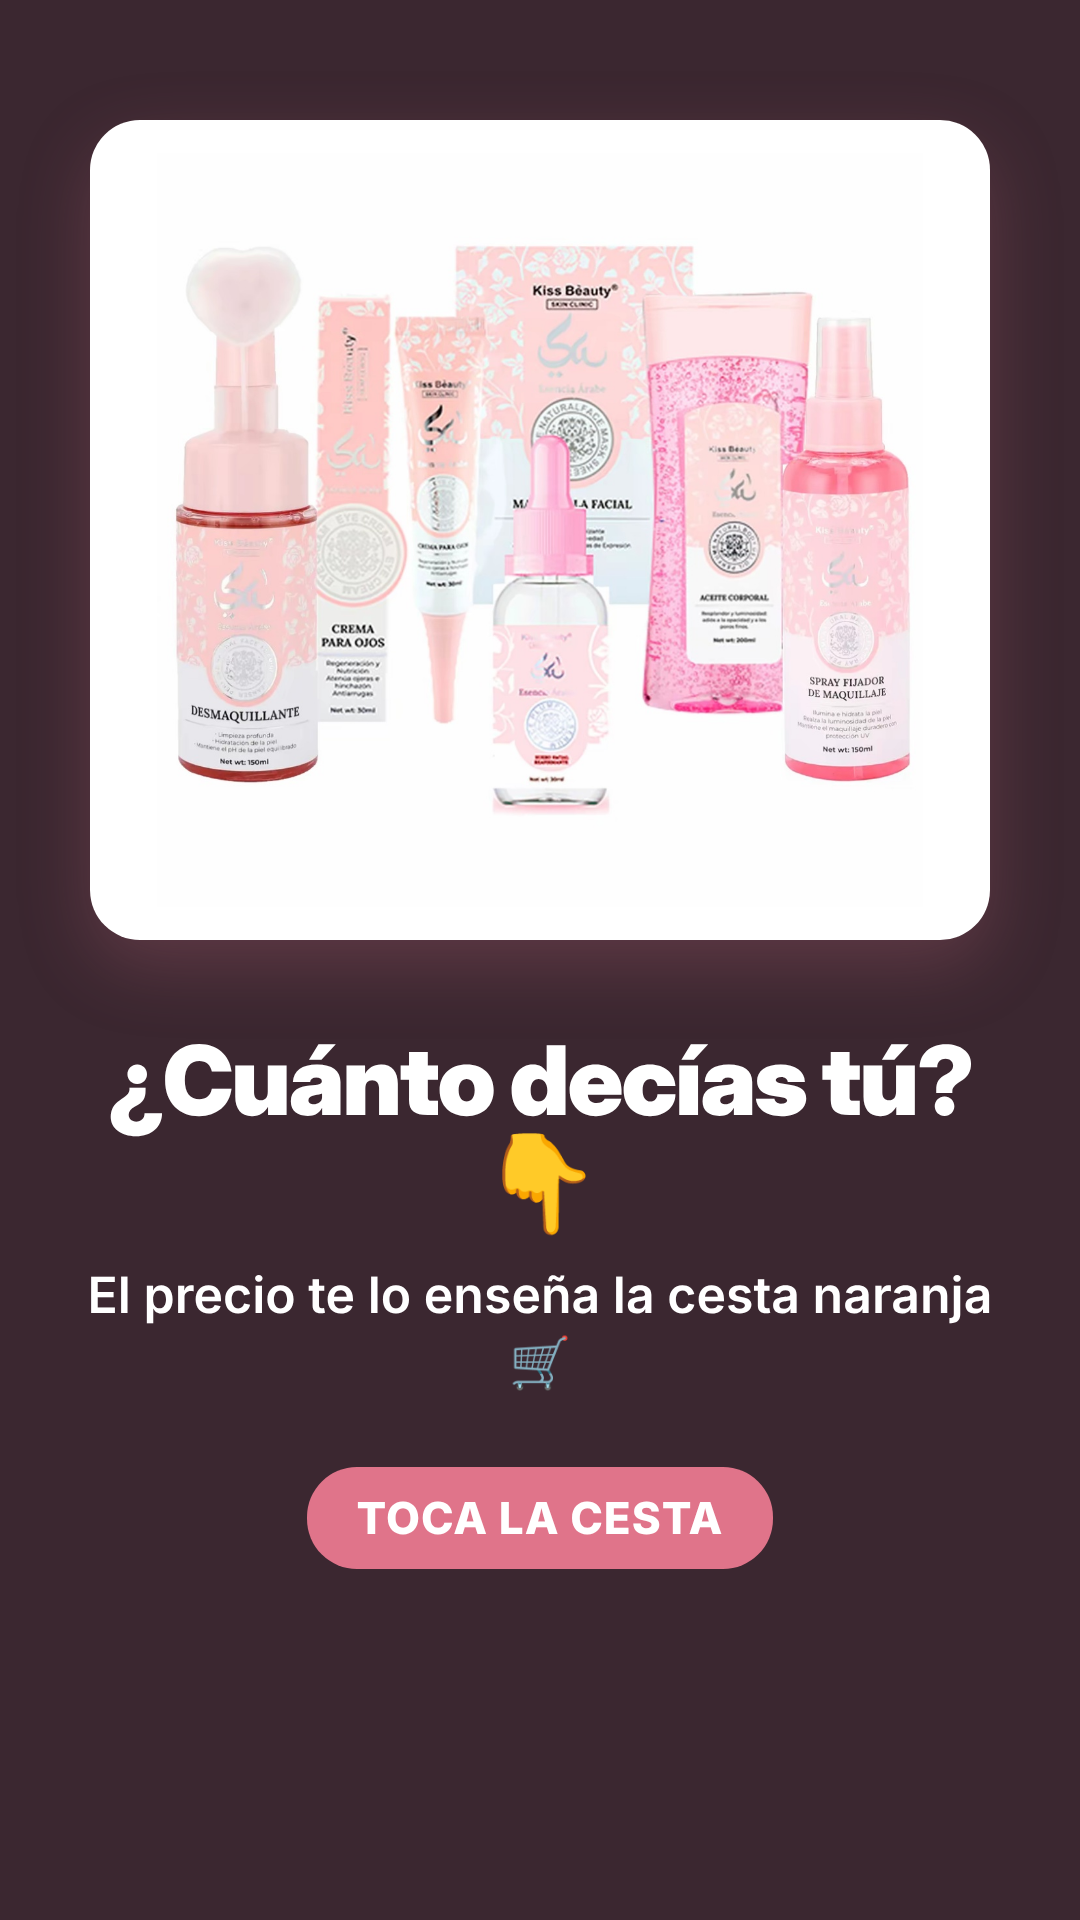
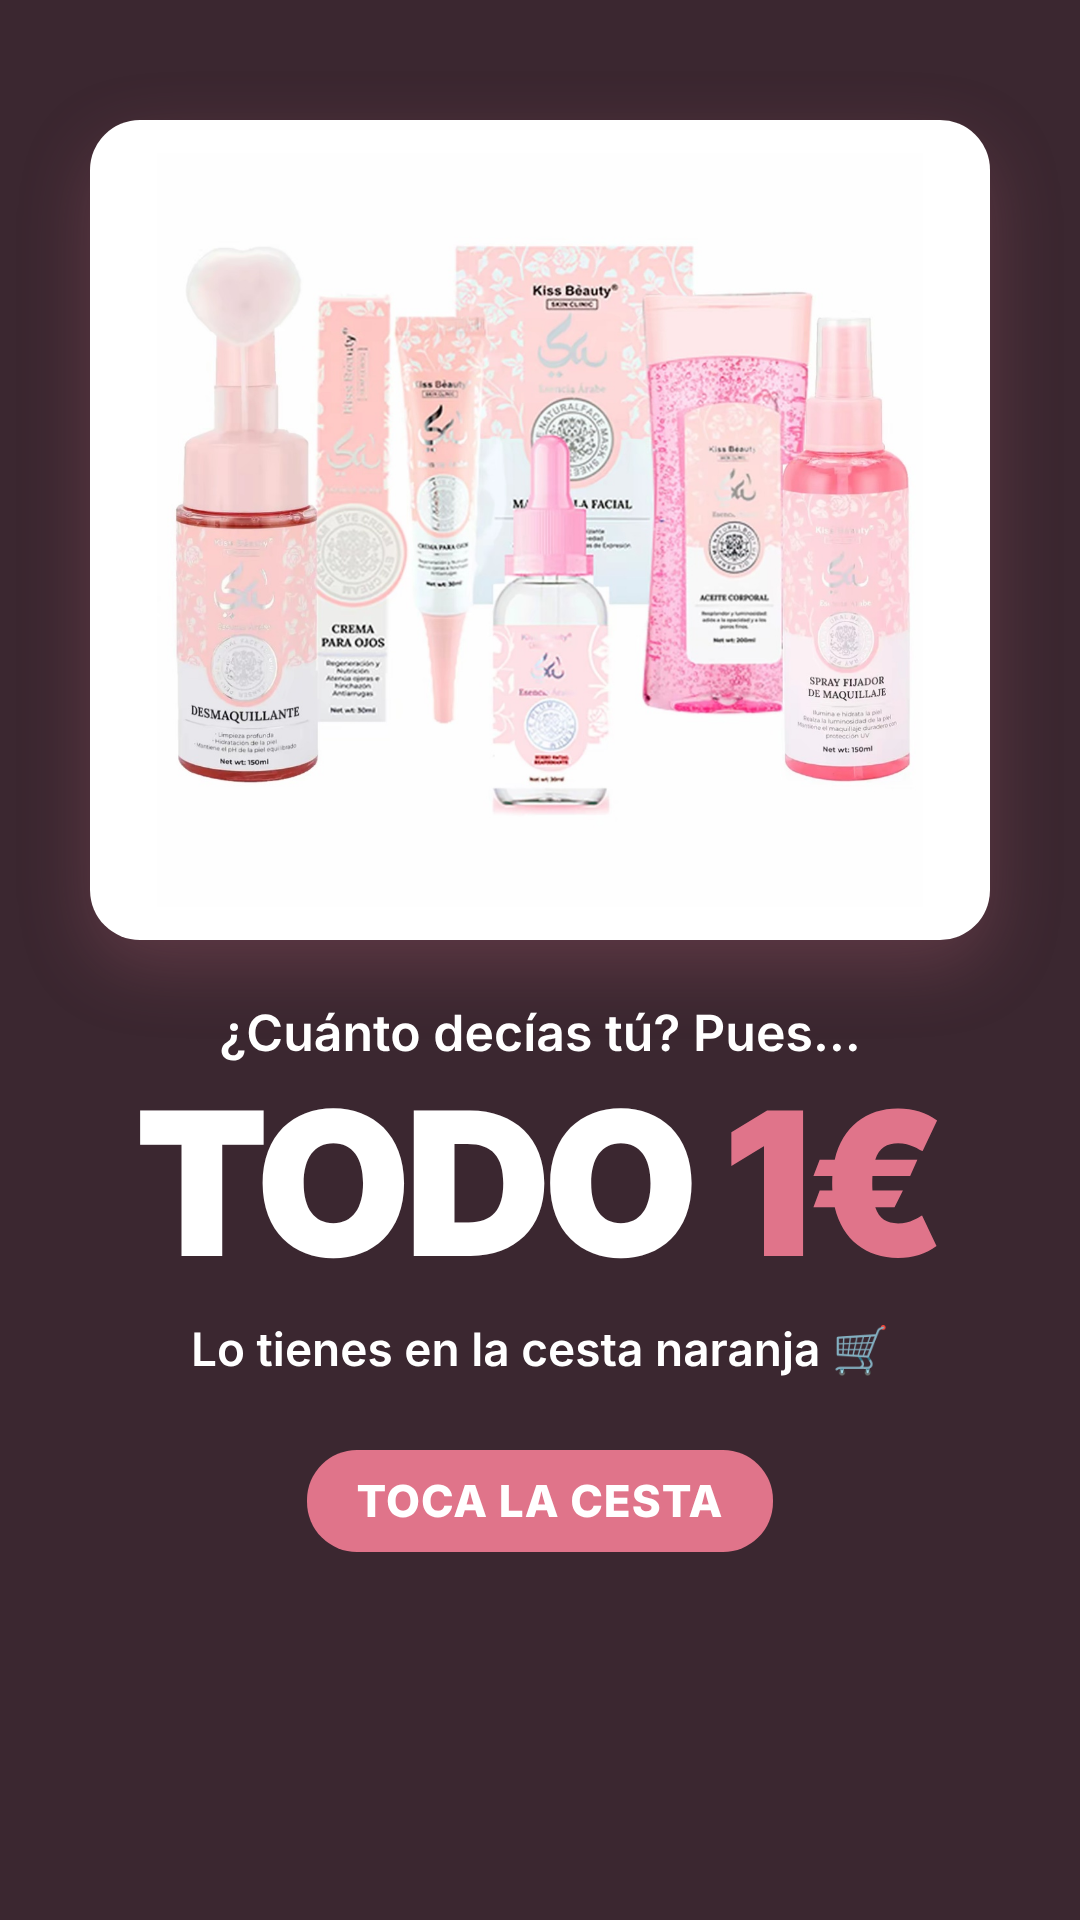
Show 1€ price on Kiss Beauty carousel closing slide
Claude-Session: https://claude.ai/code/session_01AgdcMcaMW8bV7EfFdLvaLR

Changed region(s): [[0.0611, 0.5312, 0.9167, 0.7188], [0.275, 0.75, 0.7333, 0.8438]]

diff --git a/marketing-kiss-beauty/carrusel/carrusel.html b/marketing-kiss-beauty/carrusel/carrusel.html
@@ -50,9 +50,10 @@ body{background:#222;display:flex;flex-direction:column;gap:40px;padding:40px;al
 
 <div class="s" id="s7" style="background:#3B2730;color:#fff">
   <div class="card" style="top:120px;bottom:auto;height:820px"><img src="assets/kit.jpg"></div>
-  <div style="position:absolute;top:1030px;left:80px;right:80px;text-align:center">
-    <div class="big" style="font-size:96px">¿Cuánto decías tú? <span class="pk">👇</span></div>
-    <div class="sub" style="font-size:50px">El precio te lo enseña la cesta naranja 🛒</div>
+  <div style="position:absolute;top:1000px;left:80px;right:80px;text-align:center">
+    <div class="sub" style="font-size:50px;margin-top:0">¿Cuánto decías tú? Pues&hellip;</div>
+    <div class="big" style="font-size:200px;margin-top:10px">TODO <span class="pk">1€</span></div>
+    <div class="sub" style="font-size:46px">Lo tienes en la cesta naranja 🛒</div>
     <div style="margin-top:70px"><span class="tag" style="background:#E0748A;font-size:44px;padding:24px 50px">TOCA LA CESTA</span></div>
   </div>
 </div>
